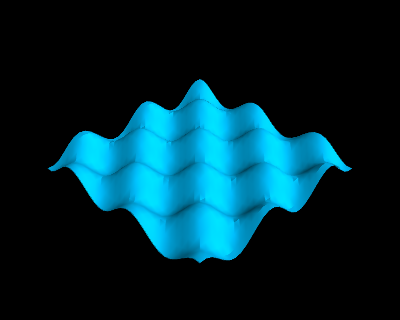
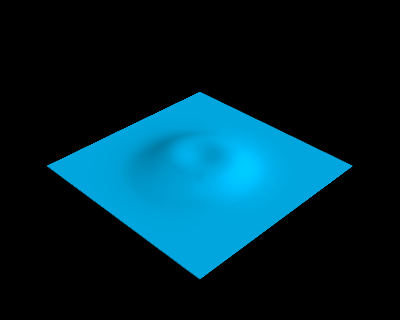
har ikke funnet feilen enda...

Changed region(s): [[0.12, 0.25, 0.9, 0.875]]

diff --git a/Project1_Mathilde/pretty_wave_2d.py b/Project1_Mathilde/pretty_wave_2d.py
@@ -11,7 +11,7 @@ f_f_glob = lambda x,y,t: x*0
 
 class wave_2d:
 
-    def __init__(self, Lx, Ly, T, Nx, Ny, dt, b = 0,I_f=None, V_f=V_f_glob, q_f=q_f_glob, f_f=f_f_glob,exact=None, gauss=False, standing=False):
+    def __init__(self, Lx, Ly, Nt, Nx, Ny, dt, b = 0,I_f=None, V_f=V_f_glob, q_f=q_f_glob, f_f=f_f_glob,exact=None, gauss=False, standing=False):
         """
         I_f is the initial state-function, x,y
         V_f is the initial velocity-function, x,y
@@ -56,7 +56,8 @@ class wave_2d:
         self.y = linspace(0,Ly,Ny)
         self.dx = self.x[1]-self.x[0]
         self.dy = self.y[1]-self.y[0]
-        self.Nt = int(T/dt)
+        self.Nt = Nt
+        self.T = Nt*dt
         self.t = linspace(0,T,self.Nt)
 
         self.X1,self.Y1 = meshgrid(linspace(0,Lx,Nx),linspace(0,Ly,Ny))
@@ -76,9 +77,9 @@ class wave_2d:
     def gauss_f(self,x,y):
         sigma_x = 0.5
         sigma_y = 0.5
-        x_0 = 0
-        y_0 = 0
-        return exp(-(((x-x_0)/(2*sigma_x))**2+((y-y_0)/(2*sigma_y))**2))
+        x_0 = self.Lx/2.0
+        y_0 = self.Ly/2.0
+        return exp(-(0.5*((x-x_0)/(sigma_x))**2+0.5*((y-y_0)/(sigma_y))**2))
 
     def standing_source(self,x,y,t):#,my=0.5, mx=0.5):
         w = self.w
@@ -162,8 +163,11 @@ class wave_2d:
 
         #vectorized:
         filename_2 = "num_dt%2.1f.gif"%dt
+        '''
         if self.standing:
             filename_2 = "standing_wave_dt%2.1f.gif"%dt
+        else:
+        '''
         for filename in glob.glob('wtmp*.png'):
             os.remove(filename)
         
@@ -171,16 +175,16 @@ class wave_2d:
             x_para = (q[1:-1,1:-1] + q[2:,1:-1])*(up[2:,1:-1] - up[1:-1,1:-1]) - (q[:-2, 1:-1] + q[1:-1,1:-1])*(up[1:-1,1:-1] - up[:-2,1:-1])
             y_para = (q[1:-1,1:-1] + q[1:-1,2:])*(up[1:-1,2:] - up[1:-1,1:-1]) - (q[1:-1,:-2] + q[1:-1,1:-1])*(up[1:-1,1:-1] - up[1:-1,:-2])
             f = f_f(X,Y,t[k])
-            #print C_x, C_y
+            
             rest = f[1:-1,1:-1] + 4*up[1:-1,1:-1] + upp[1:-1,1:-1]*(b*dt-2)
             
             
-            u[1:-1,1:-1] = 1.0/(2+b*dt)*(C_x**3*x_para + C_y**2*y_para + rest)
-            
-            u[0,:] = u[1,:]
-            u[:,0] = u[:,1]
-            u[-1,:] = u[-2,:]
-            u[:,-1] = u[:,-2]
+            u[1:-1,1:-1] = 1.0/(2+b*dt)*(C_x**2*x_para + C_y**2*y_para + rest)
+            print (C_x**3)/(2+b*dt)
+            u[0,:] = u[2,:]
+            u[:,0] = u[:,2]
+            u[-1,:] = u[-3,:]
+            u[:,-1] = u[:,-3]
     
             if k%3 == 0:
                 
@@ -272,7 +276,7 @@ T = args.T if args.T != None else 100
 Nx = args.Nx if args.Nx != None else 25
 Ny = args.Ny if args.Ny != None else Nx
 
-dx = Lx/float(Nx+1); dt = 1./float(T+1); dy = Ly/float(Ny+1);
+dx = Lx/float(Nx+1); dt = 1.0; dy = Ly/float(Ny+1);
 if args.dt <=0 or args.dt==None:
 	dt = dx/sqrt(2)
 else:
@@ -284,7 +288,7 @@ else:
 
 #p = wave_2d(10,10,80,30,30,10.0/(29*sqrt(2)),I_f = plug_I)
 #p.solve_num()
-w = wave_2d(Lx,Ly,T,Nx,Ny,dt,standing=True)
+w = wave_2d(Lx,Ly,T,Nx,Ny,dt,gauss=True)
 #w.make_exact()
 
 w.solve_num()
